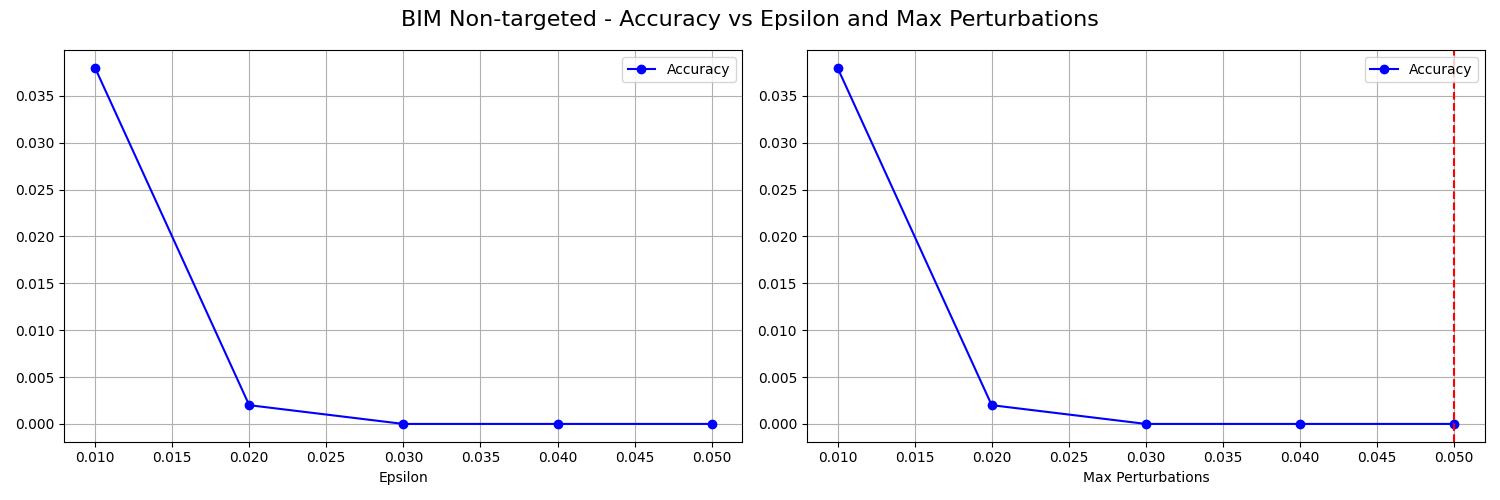
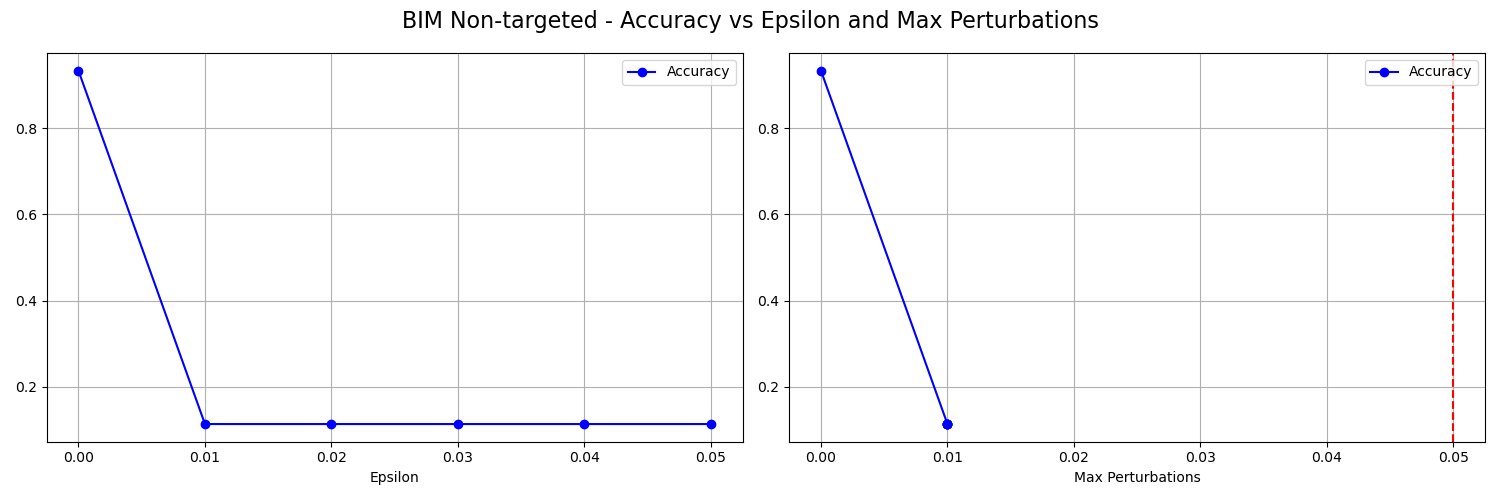
change plot filename

diff --git a/main.py b/main.py
@@ -66,24 +66,24 @@ def run_bim(classifier, test_images, test_labels, test_set, targeted, accuracy_c
     if not targeted:
         # Calcolo dell'accuracy al variare di epsilon e della perturbazione media (con epsilon_step e epsilon_step fissati)
         epsilon_values = [0.01, 0.02, 0.03, 0.04, 0.05]
-        epsilon_step = [0.01]
+        epsilon_step = [0.005]
         max_iter = [5]
         accuracies, max_perturbations, _ = bim(classifier, epsilon_values, epsilon_step, max_iter, test_images, test_labels, targeted)
-        plot_accuracy("BIM Non-targeted - Accuracy vs Epsilon and Max Perturbations", "Epsilon", epsilon_values, max_perturbations, accuracies, accuracy_clean, targeted_accuracy_clean, targeted)
+        plot_accuracy(f"BIM Non-targeted - Accuracy vs Epsilon and Max Perturbations (Epsilon_step={epsilon_step}; Max_iter={max_iter})", "Epsilon", epsilon_values, max_perturbations, accuracies, accuracy_clean, targeted_accuracy_clean, targeted)
 
         # Calcolo dell'accuracy al variare di epsilon_step e della perturbazione media (con epsilon e max_iter fissati)
-        epsilon = [0.025]
+        epsilon = [0.03]
         epsilon_step_values = [0.005, 0.01, 0.015, 0.02, 0.025]
         max_iter = [5]
         accuracies, max_perturbations, _ = bim(classifier, epsilon, epsilon_step_values, max_iter, test_images, test_labels, targeted)
-        plot_accuracy("BIM Non-targeted - Accuracy vs Epsilon Step and Max Perturbations", "Epsilon Step", epsilon_step_values, max_perturbations, accuracies, accuracy_clean, targeted_accuracy_clean, targeted)
+        plot_accuracy(f"BIM Non-targeted - Accuracy vs Epsilon Step and Max Perturbations (Epsilon={epsilon}; Max_iter={max_iter})", "Epsilon Step", epsilon_step_values, max_perturbations, accuracies, accuracy_clean, targeted_accuracy_clean, targeted)
 
         # Calcolo dell'accuracy al variare di max_iter e della perturbazione media (con epsilon e epsilon_step fissati)
-        epsilon = [0.025]
-        epsilon_step = [0.01]
-        max_iter_values = [1, 2, 5, 10, 20]
+        epsilon = [0.03]
+        epsilon_step = [0.005]
+        max_iter_values = [1, 3, 5, 7, 10]
         accuracies, max_perturbations, _ = bim(classifier, epsilon, epsilon_step, max_iter_values, test_images, test_labels, targeted)
-        plot_accuracy("BIM Non-targeted - Accuracy vs Max Iterations and Max Perturbations", "Max Iterations", max_iter_values, max_perturbations, accuracies, accuracy_clean, targeted_accuracy_clean, targeted)
+        plot_accuracy(f"BIM Non-targeted - Accuracy vs Max Iterations and Max Perturbations (Epsilon={epsilon}; (Epsilon_step={epsilon_step})", "Max Iterations", max_iter_values, max_perturbations, accuracies, accuracy_clean, targeted_accuracy_clean, targeted)
 
     ### Targeted (error-specific) BIM attack
     else:
@@ -92,21 +92,21 @@ def run_bim(classifier, test_images, test_labels, test_set, targeted, accuracy_c
         epsilon_step = [0.01]
         max_iter = [5]
         accuracies, max_perturbations, targeted_accuracy = bim(classifier, epsilon_values, epsilon_step, max_iter, test_images, test_labels, targeted, target_class)
-        plot_accuracy("BIM Targeted - Accuracy and Targeted Accuracy vs Epsilon and Max Perturbations", "Epsilon", epsilon_values, max_perturbations, accuracies, accuracy_clean, targeted_accuracy_clean, targeted, targeted_accuracy)
+        plot_accuracy(f"BIM Targeted - Accuracy and Targeted Accuracy vs Epsilon and Max Perturbations (Epsilon_step={epsilon_step}; Max_iter={max_iter})", "Epsilon", epsilon_values, max_perturbations, accuracies, accuracy_clean, targeted_accuracy_clean, targeted, targeted_accuracy)
 
         # Calcolo dell'accuracy e della targeted accuracy al variare di epsilon_step e della perturbazione media (con epsilon, max_iter e target_class fissati)
         epsilon = [0.025]
         epsilon_step_values = [0.005, 0.01, 0.015, 0.02, 0.025]
         max_iter = [5]
         accuracies, max_perturbations, targeted_accuracy = bim(classifier, epsilon, epsilon_step_values, max_iter, test_images, test_labels, targeted, target_class)
-        plot_accuracy("BIM Targeted - Accuracy and Targeted Accuracy vs Epsilon Step and Max Perturbations", "Epsilon Step", epsilon_step_values, max_perturbations, accuracies, accuracy_clean, targeted_accuracy_clean, targeted, targeted_accuracy)
+        plot_accuracy(f"BIM Targeted - Accuracy and Targeted Accuracy vs Epsilon Step and Max Perturbations (Epsilon={epsilon}; Max_iter={max_iter})", "Epsilon Step", epsilon_step_values, max_perturbations, accuracies, accuracy_clean, targeted_accuracy_clean, targeted, targeted_accuracy)
 
         # Calcolo dell'accuracy e della targeted accuracy al variare di max_iter e della perturbazione media (con epsilon, epsilon_step e target_class fissati)
         epsilon = [0.025]
         epsilon_step = [0.01]
         max_iter_values = [1, 2, 5, 10, 20]
         accuracies, max_perturbations, targeted_accuracy = bim(classifier, epsilon, epsilon_step, max_iter_values, test_images, test_labels, targeted, target_class)
-        plot_accuracy("BIM Targeted - Accuracy and Targeted Accuracy vs Max Iterations and Max Perturbations", "Max Iterations", max_iter_values, max_perturbations, accuracies, accuracy_clean, targeted_accuracy_clean, targeted, targeted_accuracy)
+        plot_accuracy(f"BIM Targeted - Accuracy and Targeted Accuracy vs Max Iterations and Max Perturbations (Epsilon={epsilon}; (Epsilon_step={epsilon_step})", "Max Iterations", max_iter_values, max_perturbations, accuracies, accuracy_clean, targeted_accuracy_clean, targeted, targeted_accuracy)
 
         # Calcolo dell'accuracy e della targeted accuracy al variare della classe target e della perturbazione media (con epsilon, epsilon_step e max_iter fissati)
         epsilon = [0.025]
@@ -247,8 +247,8 @@ def run_cw(classifier, test_images, test_labels, test_set, targeted, accuracy_cl
 
 def main():
     parser = argparse.ArgumentParser(description="Run adversarial attacks on classifiers.")
-    parser.add_argument("--attack", type=str, default="fgsm", choices=["fgsm", "bim", "pgd", "df", "cw"], help="Type of attack to run")
-    parser.add_argument("--targeted", type=bool, default=True, help="Run a targeted attack")
+    parser.add_argument("--attack", type=str, default="bim", choices=["fgsm", "bim", "pgd", "df", "cw"], help="Type of attack to run")
+    parser.add_argument("--targeted", type=bool, default=False, help="Run a targeted attack")
     args = parser.parse_args()
     
     

diff --git a/utils.py b/utils.py
@@ -85,7 +85,7 @@ def plot_accuracy(title, x_title, x, max_perturbations, accuracies, accuracy_cle
     axes[1].grid()
     
     plt.tight_layout()
-    filename = f"{title}.png"
+    filename = f"{title.replace(".",",")}.png"
     save_path = os.path.join("./plot", filename)
     plt.savefig(save_path)
     print(f"Plot {title}.png salvato.")
